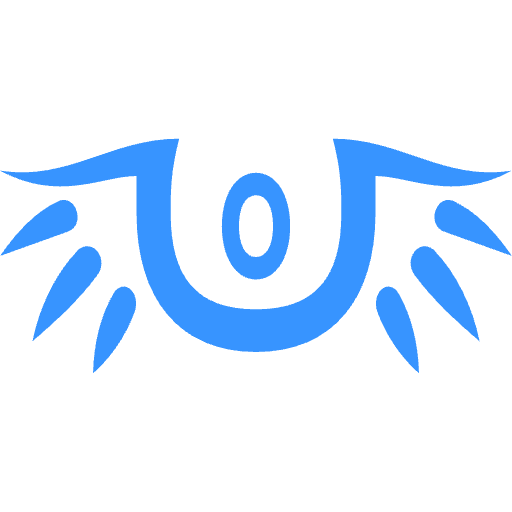
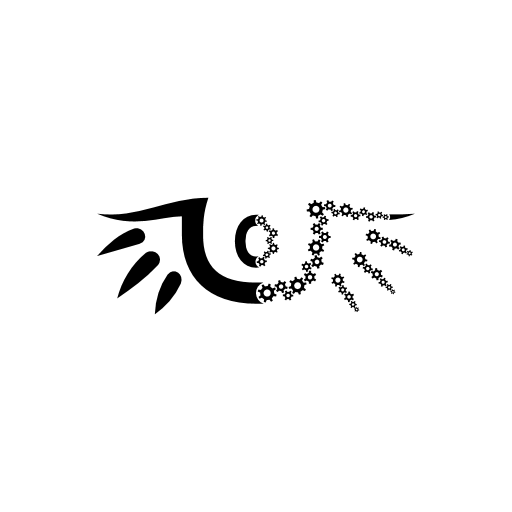
chore(release): release 0.2.2

Changed region(s): [[0.0, 0.25, 1.0, 0.7188]]

diff --git a/scripts/validate.py b/scripts/validate.py
@@ -95,6 +95,32 @@ def png_size(path: Path) -> tuple[int, int] | None:
     return int.from_bytes(header[16:20], "big"), int.from_bytes(header[20:24], "big")
 
 
+def check_icon(plugin: Path, manifest_name: str) -> None:
+    """Each plugin needs a square PNG icon of 512-2048 px under 2 MB, declared in its manifest."""
+    rel = (plugin / ".claude-plugin" / "icon.png").relative_to(ROOT).as_posix()
+    icon = ROOT / rel
+    size = png_size(icon) if icon.exists() else None
+    if size is None:
+        fail(f"{rel}: missing or not a PNG")
+    elif size[0] != size[1] or not 512 <= size[0] <= 2048 or icon.stat().st_size >= 2_000_000:
+        fail(f"{rel}: must be square, 512-2048 px and under 2 MB, found {size}")
+    manifest = load(manifest_name)
+    if manifest.get("icon") != "./.claude-plugin/icon.png":
+        fail(f"{manifest_name}: icon must be ./.claude-plugin/icon.png")
+    for field in ("documentationUrl", "supportUrl", "privacyPolicyUrl", "termsOfServiceUrl"):
+        if not str(manifest.get(field, "")).startswith("https://"):
+            fail(f"{manifest_name}: {field} must be an https URL")
+
+
+def tracked_files(pattern: str) -> list[str]:
+    """Files git tracks that match the pattern; the working tree is the fallback outside a checkout."""
+    try:
+        result = subprocess.run(["git", "ls-files", pattern, f"**/{pattern}"], cwd=ROOT, capture_output=True, text=True, check=True)
+        return sorted(set(result.stdout.split()))
+    except (OSError, subprocess.CalledProcessError):
+        return sorted(p.relative_to(ROOT).as_posix() for p in ROOT.rglob(pattern) if ".git" not in p.parts)
+
+
 def check_directory_plugin() -> None:
     """The skill plugin is the folder submitted to the plugin directory, which accepts only inert files."""
     if not SKILL_PLUGIN.is_dir():
@@ -117,19 +143,13 @@ def check_directory_plugin() -> None:
             data = path.read_bytes()
             if data.startswith(b"#!") or b"\0" in data:
                 fail(f"{name}: must be UTF-8 text without #! or NUL bytes")
-    icon = SKILL_PLUGIN / ".claude-plugin" / "icon.png"
-    size = png_size(icon) if icon.exists() else None
-    if size is None:
-        fail("plugins/angelscript/.claude-plugin/icon.png: missing or not a PNG")
-    elif size[0] != size[1] or not 512 <= size[0] <= 2048 or icon.stat().st_size >= 2_000_000:
-        fail(f"plugins/angelscript/.claude-plugin/icon.png: must be square, 512-2048 px and under 2 MB, found {size}")
-    if manifest.get("icon") != "./.claude-plugin/icon.png":
-        fail(f"{SKILL_PLUGIN_JSON}: icon must be ./.claude-plugin/icon.png")
+    check_icon(SKILL_PLUGIN, SKILL_PLUGIN_JSON)
+    check_icon(MCP_PLUGIN, MCP_PLUGIN_JSON)
     if not (ROOT / ".gitignore").exists() or "__pycache__" not in (ROOT / ".gitignore").read_text(encoding="utf-8"):
         fail(".gitignore must ignore __pycache__")
-    tracked_binaries = [p for p in ROOT.rglob("*.pyc") if ".git" not in p.parts]
-    if tracked_binaries:
-        fail(f"remove compiled files: {[p.relative_to(ROOT).as_posix() for p in tracked_binaries]}")
+    compiled = tracked_files("*.pyc")
+    if compiled:
+        fail(f"remove compiled files from git: {compiled}")
 
 
 def check_frontmatter() -> None:

diff --git a/PRIVACY.md b/PRIVACY.md
@@ -1,0 +1,11 @@
+# Privacy
+
+The AngelScript skill and the `angelscript-mcp` plugin collect no personal data and have no telemetry or accounts.
+
+- **Skill (`angelscript`):** plain Markdown instructions. It runs nothing and sends nothing.
+- **MCP server (`angelscript-mcp`):** runs on your machine and reads only the AngelScript files of the workspace you point it at. It sends no source code or results anywhere.
+- **Network use:** the first start downloads the pinned `angel_lsp` release and its `SHA256SUMS` from the GitHub releases of `angelscript-tools/angelscript-lsp`, and verifies the checksum. npm and GitHub receive the usual request metadata, such as your IP address.
+
+Your AI client, not this project, handles whatever you send to the model. See its own privacy policy.
+
+Questions: open an issue at <https://github.com/angelscript-tools/angelscript-agent-kit/issues>.

diff --git a/CHANGELOG.md b/CHANGELOG.md
@@ -2,6 +2,20 @@
 
 ## [Unreleased]
 
+## [0.2.2] - 2026-11-28
+
+### Fixed
+
+- Stop tracking the compiled `evals/__pycache__` file that made the release validation fail, and check compiled files against what git tracks instead of the working tree.
+
+### Added
+
+- Add `PRIVACY.md` and the `documentationUrl`, `supportUrl`, `privacyPolicyUrl` and `termsOfServiceUrl` fields to both plugin manifests, and an install line to the skill plugin README, as the plugin directory listing asks.
+
+### Changed
+
+- Use the new icon for both plugins; `plugins/angelscript-mcp` now has one too, and the validator checks both.
+
 ## [0.2.1] - 2026-11-28
 
 ### Changed

diff --git a/plugins/angelscript/README.md b/plugins/angelscript/README.md
@@ -4,6 +4,12 @@ Teaches an AI agent to write and check AngelScript (`.as`) scripts that run insi
 
 The skill drives the `angelscript_*` tools of [angelscript-mcp](https://github.com/angelscript-tools/angelscript-mcp). Install that server too, or the skill falls back to `asc --check` for scripts that do not call the host.
 
+## Install
+
+```
+/plugin install angelscript --marketplace angelscript-tools/angelscript-agent-kit
+```
+
 Source, install commands for other agents and the changelog: [angelscript-agent-kit](https://github.com/angelscript-tools/angelscript-agent-kit).
 
 Released under the MIT license.

diff --git a/README.md b/README.md
@@ -26,7 +26,14 @@ Claude Code gets two plugins: `angelscript` (the skill, the part submitted to th
 The MCP server on its own:
 
 ~~~json
-{ "mcpServers": { "angelscript": { "command": "npx", "args": ["-y", "@angelscript-tools/mcp"] } } }
+{
+  "mcpServers": {
+    "angelscript": {
+      "command": "npx",
+      "args": ["-y", "@angelscript-tools/mcp"]
+    }
+  }
+}
 ~~~
 
 - **Codex without the plugin:** `codex mcp add angelscript -- npx -y @angelscript-tools/mcp`

diff --git a/docs/README.es.md b/docs/README.es.md
@@ -26,7 +26,14 @@ Claude Code recibe dos plugins: `angelscript` (la skill, la parte que se envía 
 El servidor MCP solo:
 
 ~~~json
-{ "mcpServers": { "angelscript": { "command": "npx", "args": ["-y", "@angelscript-tools/mcp"] } } }
+{
+  "mcpServers": {
+    "angelscript": {
+      "command": "npx",
+      "args": ["-y", "@angelscript-tools/mcp"]
+    }
+  }
+}
 ~~~
 
 - **Codex sin el plugin:** `codex mcp add angelscript -- npx -y @angelscript-tools/mcp`
